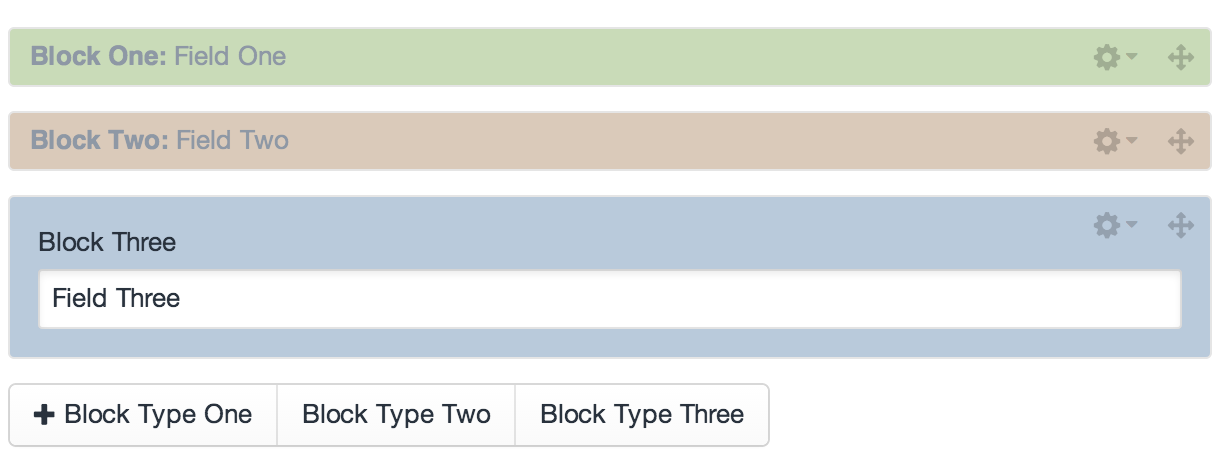
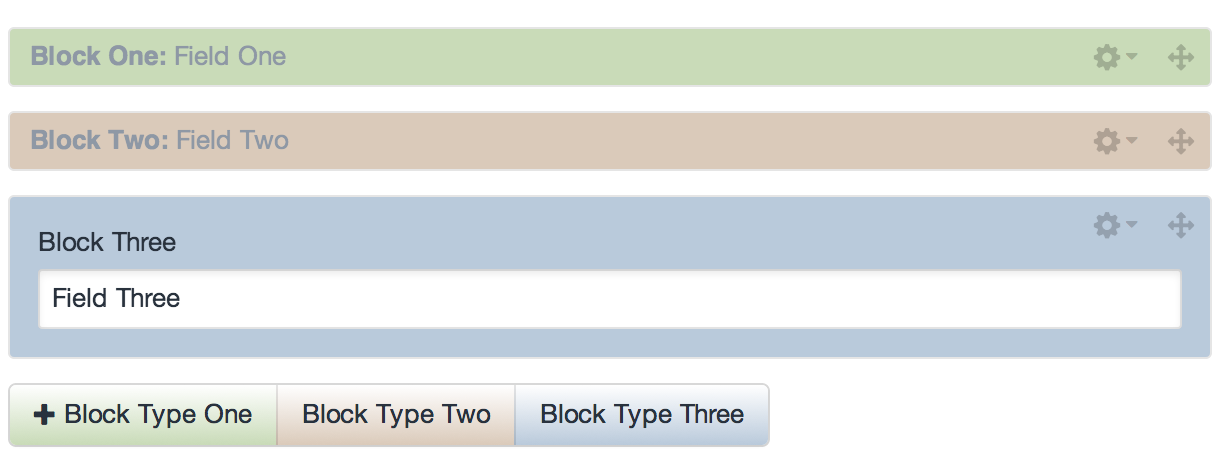
(v1.0.2) Added colors for buttons, and fixed a bug

Changed region(s): [[0.0, 0.8884, 0.653, 0.9803]]

diff --git a/matrixcolors/resources/js/matrixcolors.js b/matrixcolors/resources/js/matrixcolors.js
@@ -2,10 +2,11 @@
 // On load, colorize blocks
 $(function () {
 	colorizeMatrixBlocks();
+	colorizeMatrixButtons();
 });
 
 // Listen for new blocks
-$(document).on('click', '.matrix .btn', function () {
+$(document).on('click', '.matrix .btn, .menu ul li a', function () {
 	colorizeMatrixBlocks();
 });
 
@@ -16,4 +17,14 @@ function colorizeMatrixBlocks() {
 		blockType = $(this).find('input[type="hidden"][name*="][type]"]').val();
 		$(this).css({'background-color':blockColors[blockType]});
 	});
+}
+
+// Find buttons related to Matrix, update background color
+function colorizeMatrixButtons() {
+	var blockType;
+	for (blockType in blockColors) {
+		if (blockColors.hasOwnProperty(blockType)) {
+			$('.matrix').find('.buttons .btngroup .btn[data-type="'+blockType+'"]').css({'background-image':'linear-gradient(white,'+blockColors[blockType]+')'});
+		}
+	}
 }

diff --git a/matrixcolors/MatrixColorsPlugin.php b/matrixcolors/MatrixColorsPlugin.php
@@ -21,7 +21,7 @@ class MatrixColorsPlugin extends BasePlugin
 
 	public function getVersion()
 	{
-		return '1.0.1';
+		return '1.0.2';
 	}
 
 	public function getDeveloper()
@@ -59,7 +59,6 @@ class MatrixColorsPlugin extends BasePlugin
 					'blockType' => array(
 						'heading' => Craft::t('Block Type Handle'),
 						'type'    => 'singleline',
-						//'class'   => 'code',
 					),
 					'backgroundColor' => array(
 						'heading' => Craft::t('CSS Background Color'),
